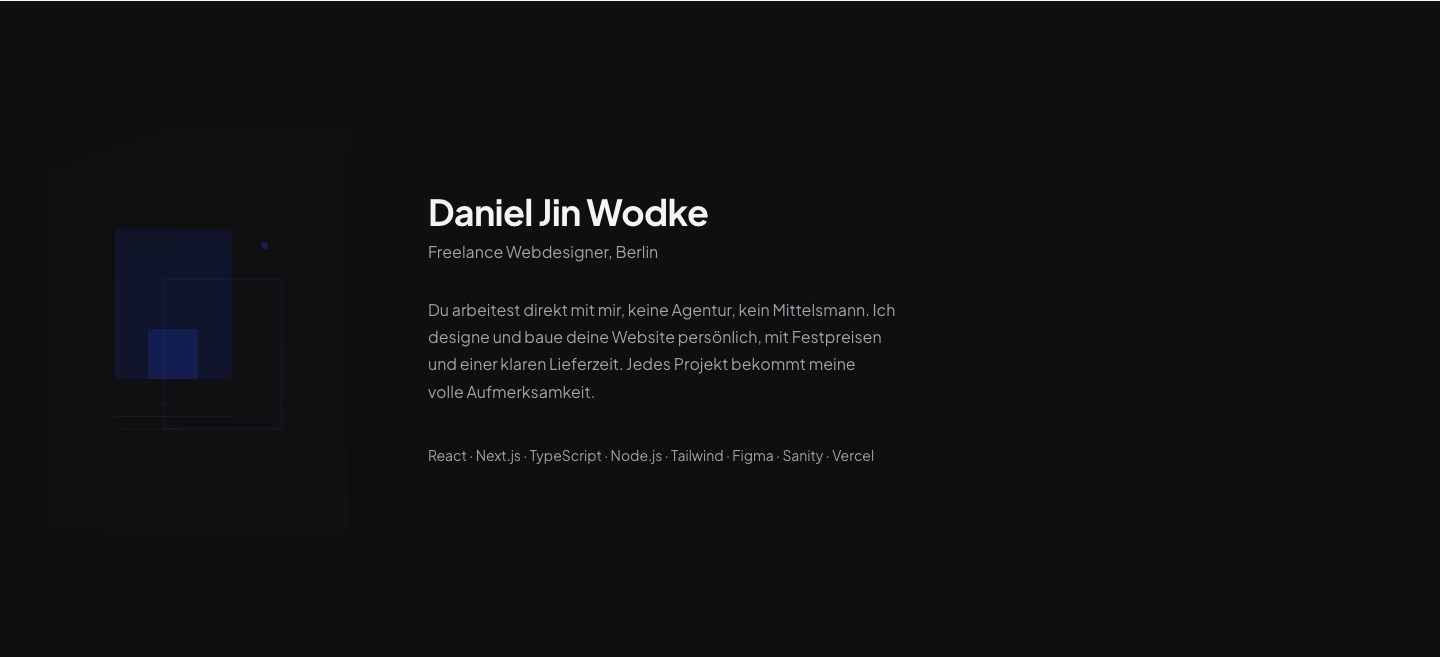
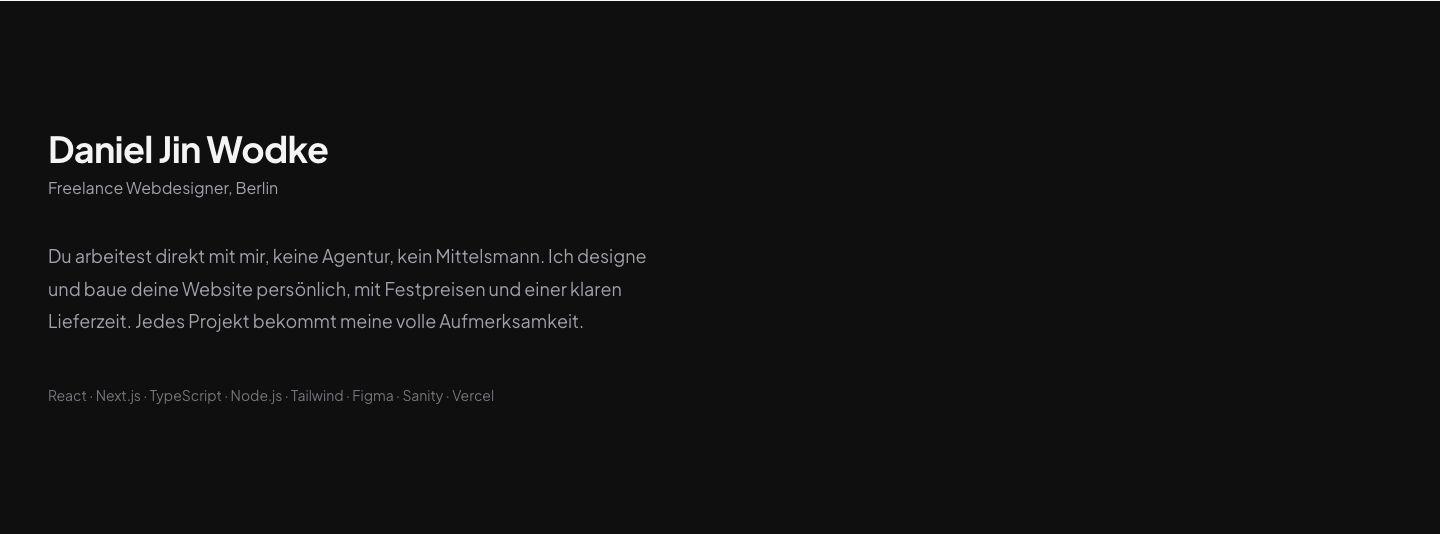
refactor: about full-width text, contact dark inputs + more space
About:
- Full-width text layout, no 2-col photo grid
- Body text at text-lg with generous leading (1.8)
- Skills as quiet muted line at bottom
- Small inline photo slot when Sanity image exists
- Removed abstract SVG illustration (was too small/awkward)

Contact:
- More vertical padding (py-28 md:py-40 vs py-24 md:py-32)
- Dark-tinted inputs (bg-white/[0.07]) blend with dark surface
- Taller input padding (py-3.5)
- Neutral placeholders (Dein Name, deine@email.de)

Build passes locally (next build OK). If Vercel fails, check
that env vars are set in the Vercel dashboard.

Changed region(s): [[0.0312, 0.2397, 0.625, 0.6292], [0.0312, 0.6891, 0.625, 0.7491], [0.2812, 0.2996, 0.5, 0.3895]]

diff --git a/components/sections/AboutSection.tsx b/components/sections/AboutSection.tsx
@@ -1,9 +1,9 @@
 /**
  * components/sections/AboutSection.tsx — About section, dark surface.
  *
- * Abstract geometric illustration left, text right.
- * No decorative glow, no eyebrow, no stat-line template.
- * Skills as a quiet middot-separated line.
+ * Full-width centered layout. No photo column, no illustration.
+ * The text IS the section. Name as heading, subline, body copy, skills.
+ * Craft-floor: heading carries its own weight, no decoration, no metric template.
  */
 'use client'
 
@@ -13,36 +13,6 @@ import { MotionSection } from '@/components/ui/MotionSection'
 import type { SITE_SETTINGS_QUERY_RESULT } from '@/sanity.types'
 
 const SKILLS = ['React', 'Next.js', 'TypeScript', 'Node.js', 'Tailwind', 'Figma', 'Sanity', 'Vercel']
-
-/**
- * Abstract geometric illustration: overlapping rectangles in the accent palette.
- * Sits in the photo slot until a real portrait lands in Sanity.
- * Pure SVG, no external dependency, matches the wireframe language.
- */
-function AbstractPortrait() {
-  return (
-    <div
-      className="w-[280px] h-[370px] md:w-[300px] md:h-[400px] flex items-center justify-center"
-      style={{ background: 'linear-gradient(160deg, #0F0F10 0%, #111114 100%)' }}
-      aria-hidden="true"
-    >
-      <svg viewBox="0 0 240 320" fill="none" className="w-[200px] h-[280px]">
-        {/* Large accent rectangle */}
-        <rect x="20" y="40" width="140" height="180" fill="var(--color-accent)" opacity="0.15" />
-        {/* Medium offset rectangle */}
-        <rect x="80" y="100" width="140" height="180" stroke="var(--color-accent)" strokeWidth="1" opacity="0.3" />
-        {/* Small solid accent block */}
-        <rect x="60" y="160" width="60" height="60" fill="var(--color-accent)" opacity="0.25" />
-        {/* Thin horizontal lines */}
-        <line x1="20" y1="250" x2="220" y2="250" stroke="white" strokeWidth="0.5" opacity="0.1" />
-        <line x1="20" y1="265" x2="160" y2="265" stroke="white" strokeWidth="0.5" opacity="0.1" />
-        <line x1="20" y1="280" x2="100" y2="280" stroke="white" strokeWidth="0.5" opacity="0.1" />
-        {/* Dot accent */}
-        <circle cx="200" cy="60" r="4" fill="var(--color-accent)" opacity="0.4" />
-      </svg>
-    </div>
-  )
-}
 
 interface AboutSectionProps {
   settings: SITE_SETTINGS_QUERY_RESULT | null
@@ -56,49 +26,40 @@ export function AboutSection({ settings, aboutPhotoUrl }: AboutSectionProps) {
   return (
     <MotionSection id="about" className="py-24 md:py-32 bg-surface-dark">
       <div className="px-6 md:px-8 lg:px-12 xl:px-[max(calc((100vw-90rem)/2+3rem),3rem)]">
-        <div className="grid grid-cols-1 md:grid-cols-[auto_1fr] gap-12 md:gap-20 items-center">
-          {/* Photo or abstract illustration */}
-          <div className="flex-shrink-0">
-            {aboutPhotoUrl ? (
-              <div
-                className="relative w-[280px] h-[370px] md:w-[300px] md:h-[400px] overflow-hidden"
-                data-testid="about-photo"
-              >
-                <Image
-                  src={aboutPhotoUrl}
-                  alt="Daniel Jin Wodke"
-                  fill
-                  className="object-cover"
-                  sizes="(max-width: 768px) 280px, 300px"
-                  style={{
-                    outline: '1px solid rgba(255,255,255,0.1)',
-                    outlineOffset: '-1px',
-                  }}
-                />
-              </div>
-            ) : (
-              <AbstractPortrait />
-            )}
-          </div>
+        <div className="max-w-3xl">
+          {/* Optional photo: inline, not a layout column */}
+          {aboutPhotoUrl && (
+            <div className="relative w-20 h-20 mb-8 overflow-hidden">
+              <Image
+                src={aboutPhotoUrl}
+                alt="Daniel Jin Wodke"
+                fill
+                className="object-cover"
+                sizes="80px"
+                style={{
+                  outline: '1px solid rgba(255,255,255,0.1)',
+                  outlineOffset: '-1px',
+                }}
+              />
+            </div>
+          )}
 
-          {/* Text */}
-          <div className="flex flex-col">
-            <h2 className="text-3xl md:text-4xl font-bold text-on-dark leading-[1.1] tracking-[-0.02em] mb-2">
-              {t('name')}
-            </h2>
-            <p className="text-base text-muted-on-dark mb-8">{t('subline')}</p>
-            <p
-              className="text-base text-muted-on-dark leading-[1.7] max-w-[520px] text-pretty mb-10"
-              data-testid="about-body"
-            >
-              {t('body')}
-            </p>
+          <h2 className="text-3xl md:text-4xl font-bold text-on-dark leading-[1.1] tracking-[-0.02em] mb-2">
+            {t('name')}
+          </h2>
+          <p className="text-base text-muted-on-dark mb-10">{t('subline')}</p>
 
-            {/* Skills */}
-            <p className="text-sm text-muted-on-dark">
-              {SKILLS.join(' \u00B7 ')}
-            </p>
-          </div>
+          <p
+            className="text-lg text-muted-on-dark leading-[1.8] max-w-[600px] text-pretty mb-12"
+            data-testid="about-body"
+          >
+            {t('body')}
+          </p>
+
+          {/* Skills as a quiet line */}
+          <p className="text-sm text-muted-on-dark/70">
+            {SKILLS.join(' \u00B7 ')}
+          </p>
         </div>
       </div>
     </MotionSection>

diff --git a/components/sections/ContactSection.tsx b/components/sections/ContactSection.tsx
@@ -54,17 +54,17 @@ export function ContactSection() {
 
   const disabled = state === 'loading'
   const inputClass = (hasError: boolean) =>
-    `w-full px-4 py-3 text-sm text-primary bg-surface border ${hasError ? 'border-destructive' : 'border-border'} placeholder:text-muted focus-visible:outline-none focus-visible:ring-2 focus-visible:ring-accent`
+    `w-full px-4 py-3.5 text-sm text-on-dark bg-white/[0.07] border ${hasError ? 'border-destructive' : 'border-muted-on-dark/20'} placeholder:text-muted-on-dark/40 focus-visible:outline-none focus-visible:ring-2 focus-visible:ring-accent`
 
   return (
-    <MotionSection id="contact" className="relative py-24 md:py-32 bg-surface-dark overflow-hidden">
+    <MotionSection id="contact" className="relative py-28 md:py-40 bg-surface-dark overflow-hidden">
       {/* Subtle blue radial glow */}
       <div className="absolute inset-0 pointer-events-none" style={{
         background: 'radial-gradient(ellipse 60% 50% at 20% 50%, rgba(28,57,187,0.06), transparent 70%)',
       }} />
 
       <div className="relative px-6 md:px-8 lg:px-12 xl:px-[max(calc((100vw-90rem)/2+3rem),3rem)]">
-        <div className="grid grid-cols-1 md:grid-cols-2 gap-16 md:gap-24">
+        <div className="grid grid-cols-1 md:grid-cols-2 gap-16 md:gap-24 items-start">
           {/* Left: heading + process */}
           <div>
             <h2 className="text-3xl md:text-4xl font-bold text-on-dark leading-[1.1] tracking-[-0.02em] mb-4">
